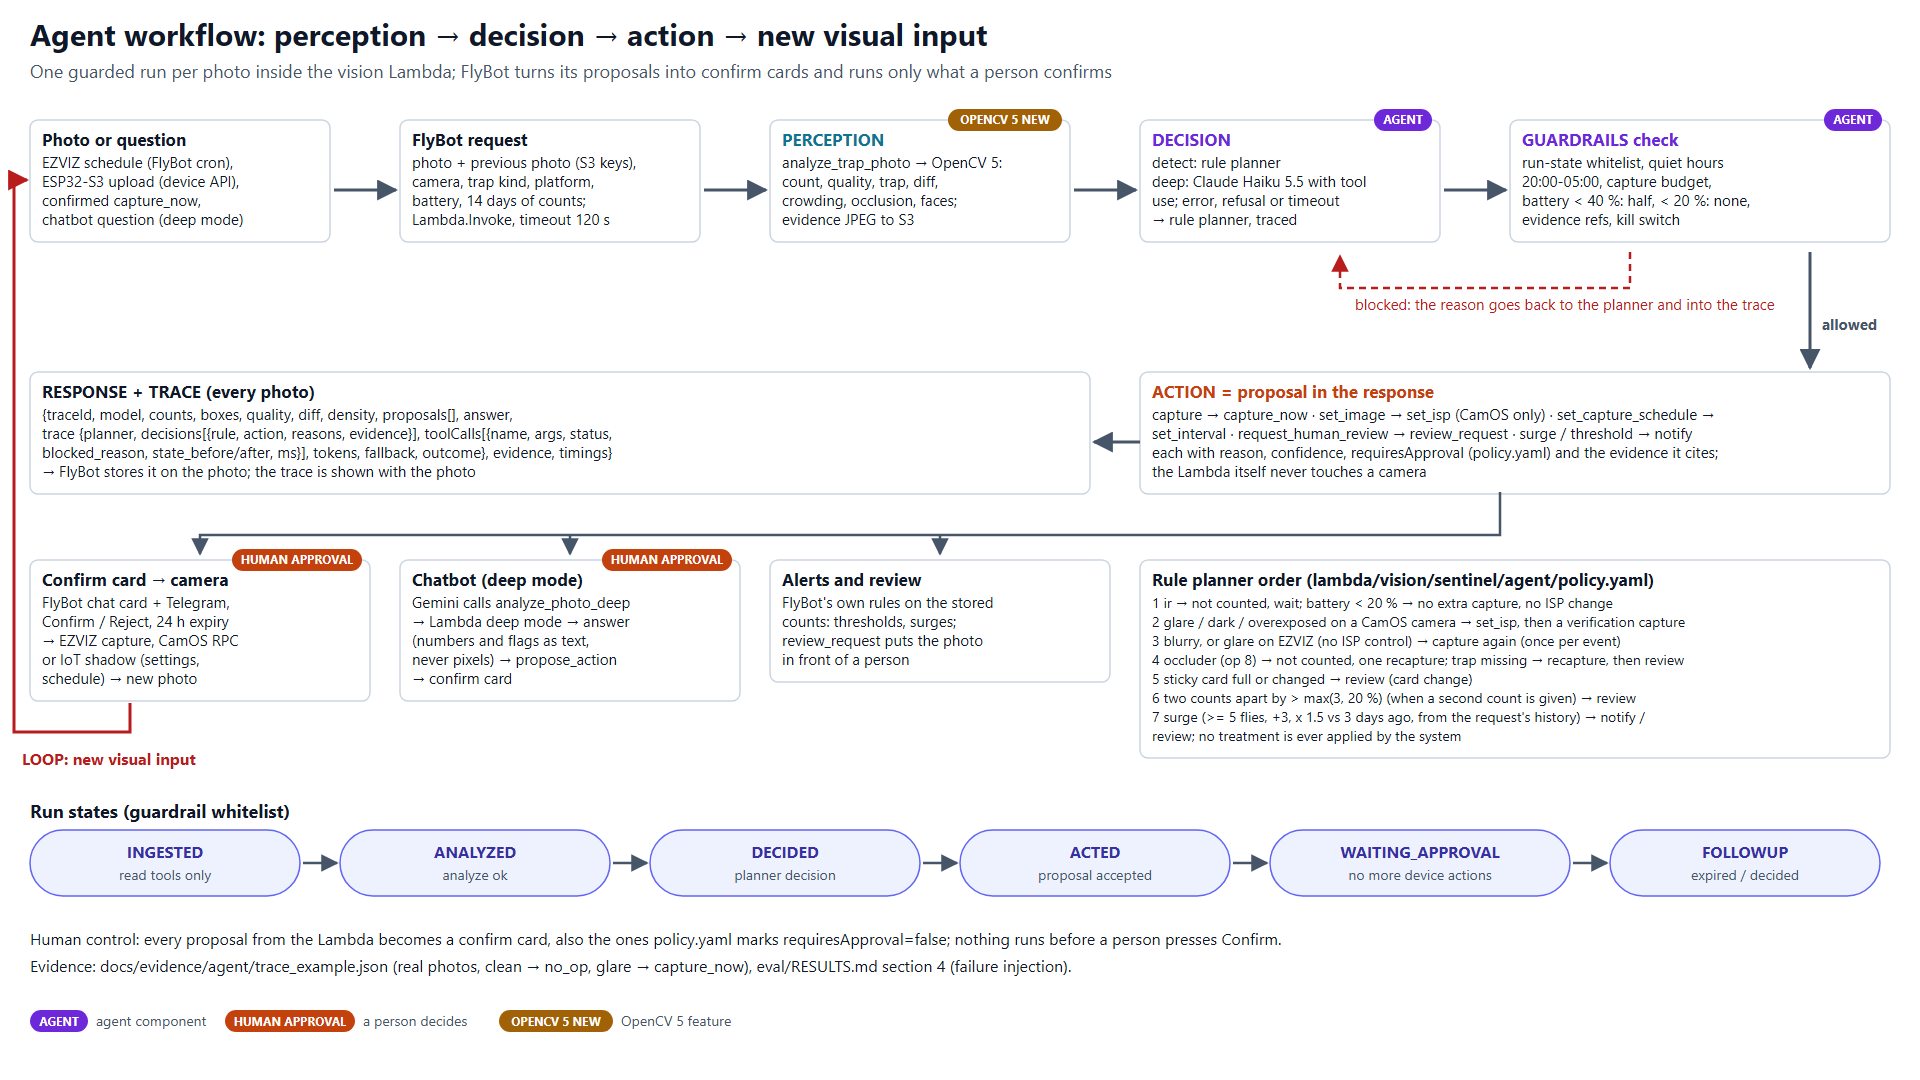
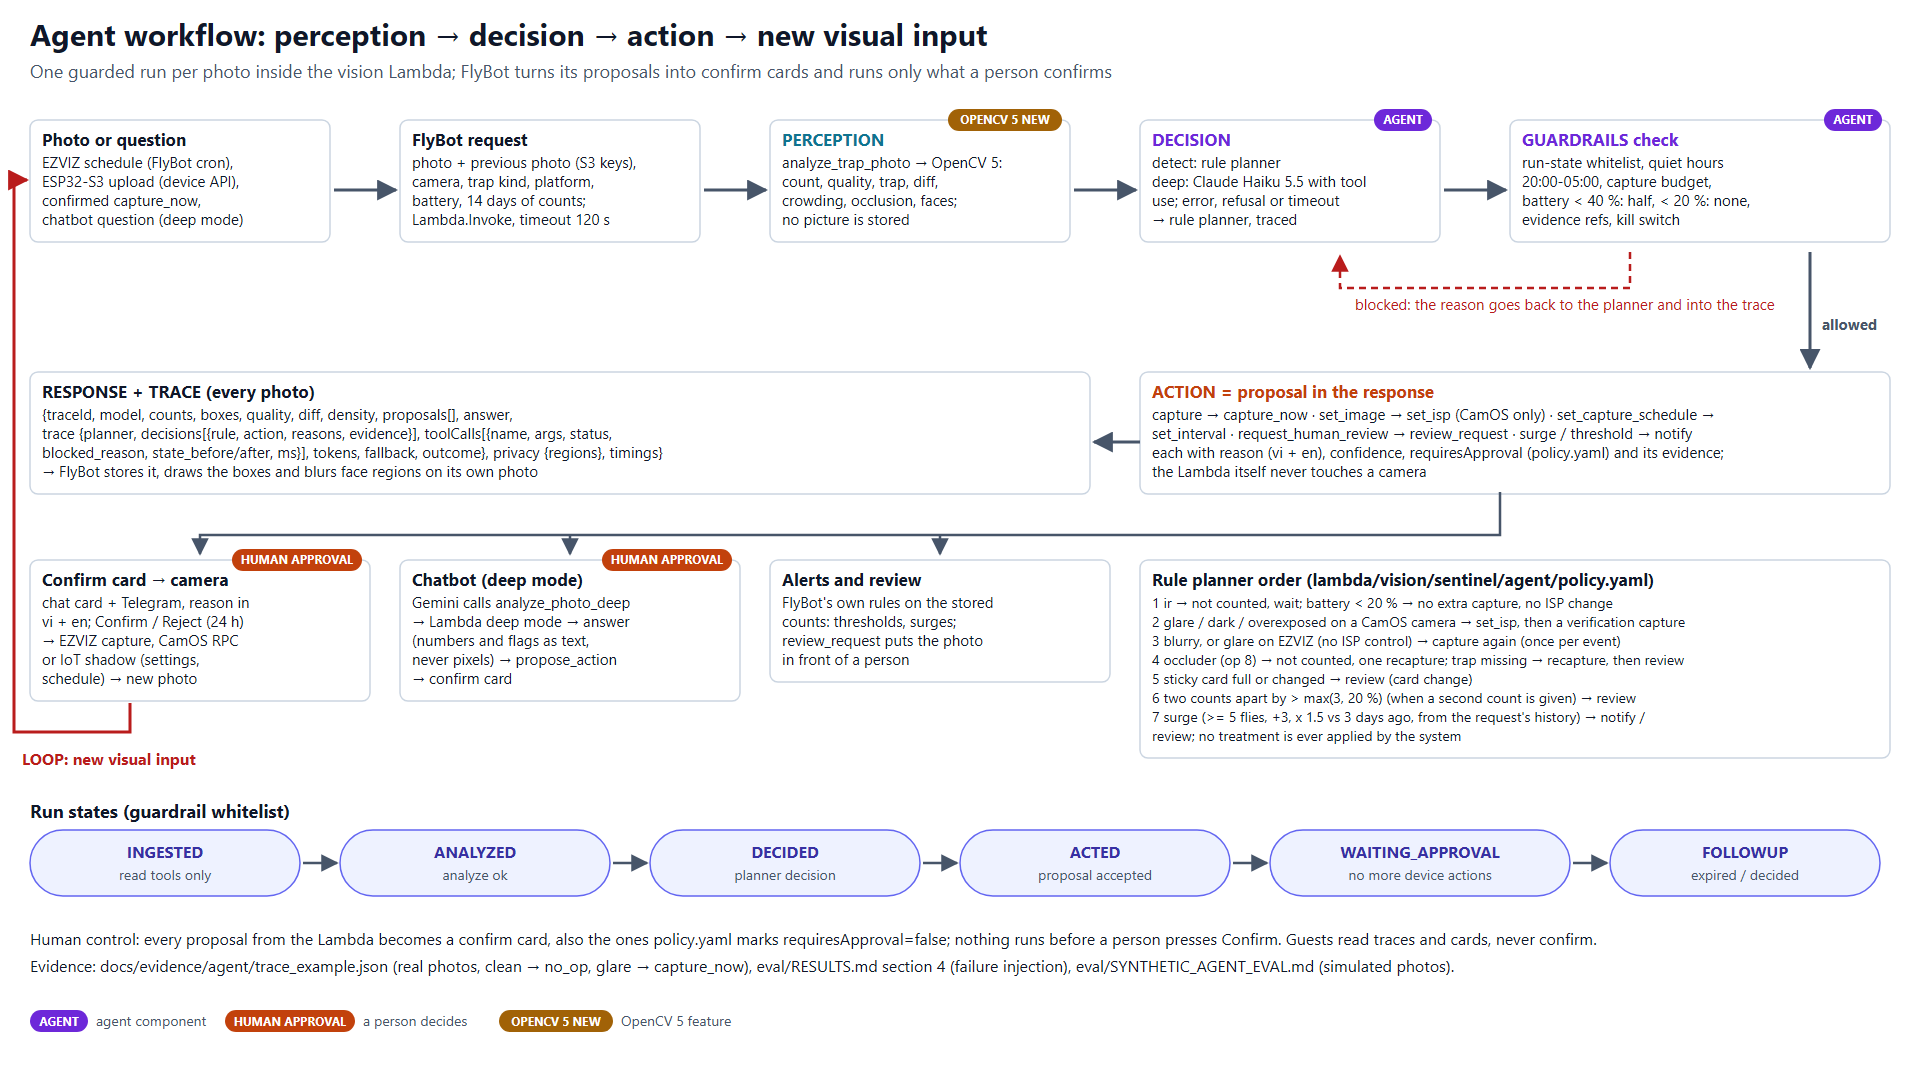
docs(diagrams): guest access, the camera fleet and the log topic
The architecture and agent workflow diagrams follow what is now live.

- Input: guest access for judges (read-only, two hours, a labelled
  simulated farm network) and firmware 0.8.0 with the remote log
- Perception: 2 x 2 tiles on sticky traps; the Lambda returns boxes and
  face regions and stores no picture
- AWS: IoT Core with the OTA RPC and the camos/<serial>/log topic; S3
  holds photos and releases only
- Decision/Action: proposal reasons in both languages, the camera fleet
  (firmware channels, OTA rollouts, pause, remote log); guests read
  traces and cards but never confirm

diff --git a/docs/diagrams/src/build_diagrams.py b/docs/diagrams/src/build_diagrams.py
@@ -133,13 +133,16 @@ def architecture() -> str:
     col(0, [
         ("EZVIZ trap cameras x 2", ["lure traps BE4089629, BE4111159", "in an orchard, southern Vietnam;",
                                     "FlyBot captures on schedule", "through EZVIZ Open Platform"]),
-        ("ESP32-S3 trap camera", ["firmware-esp32 v0.6.2 (public)", "Wi-Fi or 4G, GPS, solar + LiPo,",
-                                  "deep sleep; HTTPS photo upload,", "MQTT to IoT Core, KVS master"], ("FW",)),
+        ("ESP32-S3 trap camera", ["firmware-esp32 v0.8.0 (public)", "Wi-Fi or 4G, GPS, solar + LiPo,",
+                                  "deep sleep; HTTPS photo upload,", "MQTT to IoT Core, KVS master,",
+                                  "remote log + crash reports"], ("FW",)),
         ("Grower in FlyBot", ["web app, chatbot question about", "a photo (\"why did it jump?\"),",
                               "confirm cards, Telegram"]),
+        ("Guest access (judges)", ["read-only demo account, 2 h:", "the 2 real traps + a simulated",
+                                   "farm network, every item", "labelled Simulated"]),
         ("Replay (no hardware)", ["24 real photos in data/samples,", "make replay-sample: the same",
                                   "handler, rule planner, offline"]),
-    ])
+    ], gap=12)
     col(1, [
         ("dnn, new engine", ["readNet(..., ENGINE_NEW),", "YOLO26n ONNX [1, 300, 6],", "NMSBoxes; the engine used",
                              "is recorded in every answer"], ("V5",)),
@@ -152,13 +155,13 @@ def architecture() -> str:
          ("COOL",)),
     ])
     col(2, [
-        ("Fly count (op 5)", ["YOLO26n + box rules,", "test F1 0.9006 (OpenCV path)"], ("V5",)),
+        ("Fly count (op 5)", ["YOLO26n + box rules, test F1", "0.9006; 2 x 2 tiles on sticky traps"], ("V5",)),
         ("Quality gate (op 2)", ["blur, glare, dark, IR, trap", "missing; flags + 0-100 score"]),
         ("Trap find (op 1)", ["lure tray floor or sticky card"]),
         ("Registration + diff (ops 3-4)", ["new vs persisted boxes,", "card moved / changed"]),
         ("Crowding · density (ops 6-7)", ["card saturation, 4 x 4 grid"]),
         ("Occlusion + privacy (op 8)", ["hand / animal in front, camera", "moved, faces blurred"]),
-        ("Output", ["contract JSON (CONTRACTS.md §1)", "+ annotated evidence JPEG"]),
+        ("Output", ["contract JSON: boxes, flags, face", "regions; no picture stored"]),
     ], gap=11)
     col(3, [
         ("Planner", ["detect mode: rule planner", "(policy.yaml), deterministic", "deep mode: Claude Haiku 5.5",
@@ -174,22 +177,24 @@ def architecture() -> str:
     col(4, [
         ("EC2 t4g.micro + Elastic IP", ["FlyBot (Node 22, Vue 3),", "MongoDB 7, Caddy TLS:", "flybot.agrhub.com"]),
         ("Lambda arm64, 2 GB, 120 s", ["container from ECR, built by", "CodeBuild; one Invoke per photo"]),
-        ("AWS IoT Core", ["thing type camos-camera, one", "policy, shadow, RPC, presence;", "role alias for KVS keys"],
+        ("AWS IoT Core", ["thing type camos-camera, one", "policy, shadow, RPC, presence,", "log topic; KVS role alias"],
          ("IOT",)),
         ("Kinesis Video Streams", ["WebRTC channel per camera,", "15-min viewer credentials"]),
-        ("S3", ["photos, evidence (90 days),", "releases, build context"]),
+        ("S3", ["photos, FlyBot releases,", "Lambda build context"]),
         ("Ops", ["Secrets Manager, CloudWatch", "alarms → SNS, SSM, IAM,", "CloudFormation (SAM)"]),
     ], gap=13)
     col(5, [
-        ("Proposals → confirm cards", ["capture_now, set_isp (CamOS),", "set_interval, review_request,", "notify; in FlyBot chat",
-                                       "+ Telegram; expire after 24 h"], ("HUMAN",)),
+        ("Proposals → confirm cards", ["capture_now, set_isp (CamOS),", "set_interval, review_request,", "notify; reason in vi + en;",
+                                       "chat + Telegram; 24 h expiry"], ("HUMAN",)),
         ("Confirmed: camera action", ["EZVIZ capture API, or CamOS", "RPC snapshot.now / shadow", "(image settings, schedule)"],
          ("IOT",)),
         ("New photo", ["→ Lambda again (the loop)"]),
         ("Chatbot answer", ["deep-mode markdown + its", "proposals as cards"], ("HUMAN",)),
         ("Alerts", ["FlyBot thresholds and surges:", "Telegram, email, web push"]),
         ("Live view", ["KVS WebRTC to the browser,", "on request"]),
-    ], gap=13)
+        ("Camera fleet (admin)", ["firmware from GitHub (alpha /", "beta / stable), OTA rollouts,", "pause, battery guard, remote log"],
+         ("IOT",)),
+    ], gap=11)
     s.arrow([(X[5] + 140, 935), (X[5] + 140, 952), (X[0] + 140, 952), (X[0] + 140, 939)], color=RED, width=3)
     s.text(960, 978, "LOOP: a confirmed capture produces a new photo, which is perceived again",
            size=17, weight="bold", fill=RED, anchor="middle")
@@ -216,7 +221,7 @@ def agent_workflow() -> str:
     s.box(xs[1], Y, W, ["photo + previous photo (S3 keys),", "camera, trap kind, platform,", "battery, 14 days of counts;",
                         "Lambda.Invoke, timeout 120 s"], title="FlyBot request")
     s.box(xs[2], Y, W, ["analyze_trap_photo → OpenCV 5:", "count, quality, trap, diff,", "crowding, occlusion, faces;",
-                        "evidence JPEG to S3"], title="PERCEPTION", title_fill="#0e7490", badges=("V5",))
+                        "no picture is stored"], title="PERCEPTION", title_fill="#0e7490", badges=("V5",))
     s.box(xs[3], Y, W, ["detect: rule planner", "deep: Claude Haiku 5.5 with tool", "use; error, refusal or timeout",
                         "→ rule planner, traced"], title="DECISION", title_fill="#6d28d9", badges=("AGENT",))
     s.box(xs[4], Y, 380, ["run-state whitelist, quiet hours", "20:00-05:00, capture budget,", "battery < 40 %: half, < 20 %: none,",
@@ -231,18 +236,18 @@ def agent_workflow() -> str:
     AY = 372
     s.box(1140, AY, 750, ["capture → capture_now · set_image → set_isp (CamOS only) · set_capture_schedule →",
                           "set_interval · request_human_review → review_request · surge / threshold → notify",
-                          "each with reason, confidence, requiresApproval (policy.yaml) and the evidence it cites;",
+                          "each with reason (vi + en), confidence, requiresApproval (policy.yaml) and its evidence;",
                           "the Lambda itself never touches a camera"],
           title="ACTION = proposal in the response", title_fill="#c2410c")
     s.box(30, AY, 1060, ["{traceId, model, counts, boxes, quality, diff, density, proposals[], answer,",
                          " trace {planner, decisions[{rule, action, reasons, evidence}], toolCalls[{name, args, status,",
-                         " blocked_reason, state_before/after, ms}], tokens, fallback, outcome}, evidence, timings}",
-                         " → FlyBot stores it on the photo; the trace is shown with the photo"],
+                         " blocked_reason, state_before/after, ms}], tokens, fallback, outcome}, privacy {regions}, timings}",
+                         " → FlyBot stores it, draws the boxes and blurs face regions on its own photo"],
           title="RESPONSE + TRACE (every photo)", title_fill=INK)
     s.arrow([(1140, AY + 70), (1094, AY + 70)], width=3)
     LY = 560
     lanes = [
-        ("Confirm card → camera", ["FlyBot chat card + Telegram,", "Confirm / Reject, 24 h expiry", "→ EZVIZ capture, CamOS RPC",
+        ("Confirm card → camera", ["chat card + Telegram, reason in", "vi + en; Confirm / Reject (24 h)", "→ EZVIZ capture, CamOS RPC",
                                    "or IoT shadow (settings,", "schedule) → new photo"], ("HUMAN",)),
         ("Chatbot (deep mode)", ["Gemini calls analyze_photo_deep", "→ Lambda deep mode → answer", "(numbers and flags as text,",
                                  "never pixels) → propose_action", "→ confirm card"], ("HUMAN",)),
@@ -283,9 +288,10 @@ def agent_workflow() -> str:
             s.arrow([(sx + w + 3, SY + 33), (sx + w + 37, SY + 33)], width=2.5)
         sx += w + 40
     s.text(30, 945, "Human control: every proposal from the Lambda becomes a confirm card, also the ones policy.yaml "
-           "marks requiresApproval=false; nothing runs before a person presses Confirm.", size=16)
+           "marks requiresApproval=false; nothing runs before a person presses Confirm. Guests read traces and cards, "
+           "never confirm.", size=16)
     s.text(30, 972, "Evidence: docs/evidence/agent/trace_example.json (real photos, clean → no_op, glare → capture_now), "
-           "eval/RESULTS.md section 4 (failure injection).", size=16)
+           "eval/RESULTS.md section 4 (failure injection), eval/SYNTHETIC_AGENT_EVAL.md (simulated photos).", size=16)
     legend(s, 1010, ["AGENT", "HUMAN", "V5"], ["agent component", "a person decides", "OpenCV 5 feature"])
     return s.render()
 
